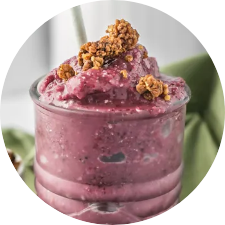
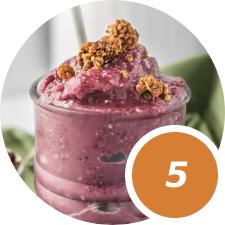
Created an adaptation of the site for different screen sizes

Changed region(s): [[0.5289, 0.5289, 0.9956, 0.9956]]

diff --git a/index.html b/index.html
@@ -43,7 +43,11 @@
         <div class="btn">
             <a class="button" href="#">TABLE ORDER</a>
         </div>   
-   
+        <div class="burger-menu">
+            <a href="#">
+            <img src="images/BurgerMenu.png">
+            </a>
+        </div>
         </div>     
         <div class="header-down">
             <div class="header-title">
@@ -164,19 +168,19 @@
                 <div class="sandwich-item">
                     <img class="eegsalad" src="images/eegsalad.jpg" alt="Eeg Salad sandwich">
                     <div class="sandwich-price">
-                        <p>Eeg Salad Sandwich ---------------- 2$</p>
+                        <p>Eeg Salad Sandwich ------------ 2$</p>
                     </div>
                 </div>
                 <div class="sandwich-item">
                     <img class="pastrami" src="images/pastrami.jpg" alt="Pastrami sandwich">
                     <div class="sandwich-price">
-                        <p>Pastrami Sandwich ----------------- 2$</p>
+                        <p>Pastrami Sandwich ------------- 2$</p>
                     </div>
                 </div>
                 <div class="sandwich-item">
                     <img class="turkey" src="images/turkey.jpg" alt="Turkey sandwich">
                     <div class="sandwich-price">
-                        <p>Turkey Sandwich ------------------- 2$</p>
+                        <p>Turkey Sandwich --------------- 2$</p>
                     </div>
                 </div>
             </div>
@@ -192,10 +196,6 @@
             <div class="menu-item">
                 <div class="menu-image">
                     <img class="acaiblackberry" src="images/acaiblackberry.png" alt="Acai Blackberry Smoothie">
-                    <div class="menu-price">
-                    <img class="price-image" src="images/price.png">
-                    <p class="price">5</p>
-                    </div>
                 </div>
                 <div class="menu-text">
                     <p>Acai Blackberry Smoothie</p>
@@ -210,10 +210,6 @@
             <div class="menu-item">
                 <div class="menu-image">
                     <img class="peachblueberry" src="images/peachblueberry.png" alt="Peach Blueberry Smoothie">
-                    <div class="menu-price">
-                    <img class="price-image" src="images/price.png">
-                    <p class="price">5</p>
-                    </div>
                 </div>
                 <div class="menu-text">
                     <p>Peach Blueberry Smoothie</p>
@@ -228,10 +224,6 @@
             <div class="menu-item">
                 <div class="menu-image">
                     <img class="strawberry" src="images/strawberry.png" alt="Strawberry Smoothie">
-                    <div class="menu-price">
-                    <img class="price-image" src="images/price.png">
-                    <p class="price">5</p>
-                    </div>
                 </div>
                 <div class="menu-text">
                     <p>Strawberry  Smoothie</p>

diff --git a/style.css b/style.css
@@ -394,22 +394,8 @@ header {
     margin-top: 20px;
 }
 
-.price-image {
-    position: absolute;
-    bottom: 0;
-    right: 110px;
-}
-
 .menu-image {
     position: relative;
-}
-
-.price {
-    position: absolute;
-    bottom: 32px;
-    right: 155px;
-    color: #fff;
-    font-size: 30px;
 }
 
 .menu-items {
@@ -506,4 +492,142 @@ footer {
     padding: 50px 0;
     color: #fff;
     text-align: center;
+}
+
+.burger-menu {
+    display: none;
+}
+
+@media (max-width: 1500px) {
+    .gallery-content {
+        display: block;
+    }
+
+    .gallery-img, .gallery-up, .gallery-down {
+        display: block;
+        margin-left: auto;
+        margin-right: auto;
+    }
+
+    .gallery-img{
+        margin-bottom: 20px;
+    }
+
+    .gallery-left {
+        margin-right: 0;
+    }
+
+    .images-1 {
+        top: 54px;
+        left: -385px;
+    }
+    
+    .images-2 {
+        top: -92px;
+        left: -215px;
+    }
+    
+    .images-3 {
+        top: 165px;
+        left: -100px;
+    }
+
+}
+
+@media (max-width: 1300px) {
+    .menu-items {
+        display: block;
+    }
+
+    .menu-item {
+        margin: 20px auto;
+        width: 600px;
+    }
+
+    .header-title {
+        position: static;
+    }
+
+    .header-subtitle-two:after, .header-subtitle-two:before {
+        content: none;
+    }
+
+    .employee-content {
+        display: block;
+    }
+
+    .employee-content img {
+        display: block;
+        margin-left: auto;
+        margin-right: auto;
+        margin-bottom: 30px;
+    }
+
+    .banner-holder {
+        display: block;
+    }
+
+    .left-title, .left-text, .right-button {
+        text-align: center;
+    }
+
+    .right-button {
+        margin-top: 30px;
+    }
+
+    .history-images {
+        display: none;
+    }
+
+    .history-title, .history-desc, .history-number {
+        width: auto;
+    }
+}
+
+@media (max-width: 1185px) {
+    .burger-menu {
+        display: block;
+    }
+
+    nav, .cart, .phone, .btn {
+        display: none;
+    }
+
+    .header-line {
+        justify-content: space-between;
+    }
+
+    .reuben {
+        display: none;
+    }
+}
+
+@media (max-width: 1000px) {
+    .card-holder{
+        display: block;
+    }
+
+    .card {
+        width: 100%;
+        margin-top: 30px;
+        padding-bottom: 20px;
+    }
+}
+
+@media (max-width: 780px) {
+    .history-holder {
+        display: block;
+    }
+
+    .menu-item {
+        width: auto;
+    }
+
+    .container {
+        margin: auto 40px;
+    }
+
+    .number-item {
+        font-size: 23px;
+    }
 }
